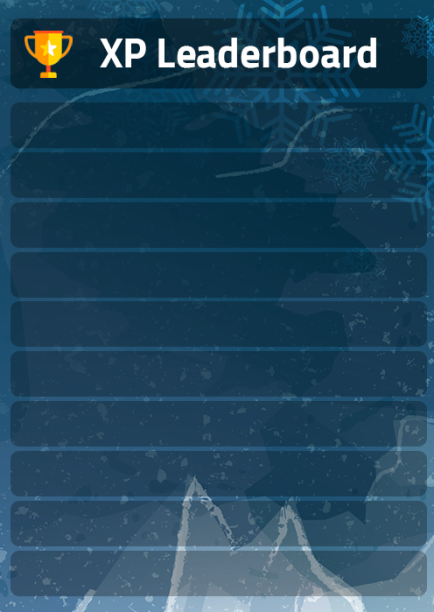
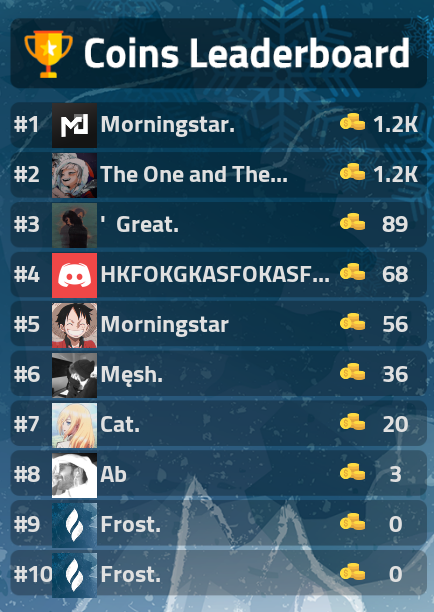
update

diff --git a/bot/src/structure/Client.js b/bot/src/structure/Client.js
@@ -15,7 +15,7 @@ class FrostClient extends Client {
   __init() {
     this.commandHandler = [];
     this.listenerHandler = [];
-    this.lastLeaderUpdate = Date.now();
+    this.lastLeaderUpdate = 0;
     readdir(join(__dirname, "..", "commands"), (error, folders) => {
       if (error) throw error;
 
@@ -49,28 +49,38 @@ class FrostClient extends Client {
   }
 
   async updateLeaderBoard() {
+    this.lastLeaderUpdate = Date.now();
     const usersData = await UserSchema.find({});
     for (const type of ["coins", "xp"]) {
-      const dir = `${__dirname}/leaderboards/${type}`;
-      require("fs").rmdirSync(dir);
-      require("fs").mkdirSync(dir);
+      const dir = join(__dirname, "../../../", `leaderboards/${type}`);
+      require("rimraf").sync(`leaderboards/${type}`);
+      require("child_process").execSync(`mkdir leaderboards\\${type}`);
+      const icon = await resolveImage(`./leaderboards/icons/${type}.png`);
+      if (usersData.length < 100) for (const _ of new Array(100 - usersData.length)) { usersData.push({ _id: this.user.id, coins: 0, xp: 0 }); }
       for (let page = 0; page < 10; page++) {
-        const users = usersData.sort((first, second) => second[type] - first[type]).slice(page * 10, page * 10 + 10);
+        const users = usersData.sort((first, second) => second[type] - first[type]).slice(page * 10, (page * 10) + 10);
         const printer = new Canvas(434, 612)
-          .printImage(await resolveImage(`./leaderboards/bg/${type}`, 0, 0, 434, 612))
+          .printImage(await resolveImage(`./leaderboards/bg/${type}.png`), 0, 0, 434, 612)
           .setTextFont("17px Cairo-semibold")
           .setColor("#e0e0e0")
           .setTextSize(23.5);
-        users.forEach(async (userData, index) => {
-          const user = await this.users.fetch(userData._id);
-          printer.printText(`#${(page * 10) + users.indexOf(userData)}`, 14, 132 + index * 50);
-          printer.printImage(await resolveImage(user.displayAvatarURL({ format: "png", size: 128 })), 52, 103 + (index * 50), 45, 45);
-        });
-        
+        for (const userData of users) {
+          const user = await this.users.fetch(userData._id) || this.user;
+          const username = user.username.slice(0, 15) + (user.username.length > 14 ? "..." : "");
+          const index = users.indexOf(userData);
+          printer.printText(`#${(page * 10) + index + 1}`, 14, 132 + (index * 50));
+          printer.printImage(await resolveImage(user.displayAvatarURL({ format: "png", size: 4096 })), 52, 103 + (index * 50), 45, 45);
+          printer.printText(username, 100, 132 + (index * 50));
+          printer.printImage(icon, 340, 132 + (index * 50) - 23, 25, 25);
+          printer.setTextAlign("center");
+          printer.printText(require("short-number")(userData[type]), 395, 132 + (index * 50));
+          printer.setTextAlign("left");
+        }
+        require("fs").writeFileSync(`${dir}/${page}.png`, printer.toBuffer());
+        if (page === 0) Promise.resolve(true);
       }
     }
-  };
-
+  }
 }
 
 module.exports = FrostClient;

diff --git a/bot/src/commands/enquiry/Leaderboard.js b/bot/src/commands/enquiry/Leaderboard.js
@@ -1,46 +1,10 @@
-
-const { Canvas, resolveImage } = require("canvas-constructor");
-const { registerFont } = require("canvas");
-const UserSchema = require("../../../../database/models/User");
-registerFont("./bot/src/canvas/fonts/CAIRO-SEMIBOLD.TTF", { family: "Cairo-semibold" });
 module.exports = {
   name: "leaderboard",
   async exec(message) {
     let counter = 0;
-
-
-    let membersData = (await UserSchema.find({})).sort((a, b) => b.coins - a.coins).slice(0, 10);
-    const backgroundImage = await resolveImage("./leaderboards/1.png");
-    const coinIcon = await resolveImage("./leaderboards/coins.png");
-    const cv = new Canvas(434, 612)
-    .printImage(backgroundImage, 0, 0, 434, 612)
-    .setTextFont("17px Cairo-semibold")
-      .setTextAlign("left")
-      .setColor("#e0e0e0")
-      .setTextSize(23.5);
-      membersData.forEach(m => membersData.push(m));
-      membersData = membersData.sort((a, b) => b.coins - a.coins);
-    for (let i = 0; i < 10; i++) {
-      const memberI = membersData[i];
-      if (!memberI) continue;
-      const member = await this.users.fetch(memberI._id);
-      const userAvatar = await resolveImage(member.displayAvatarURL({ format: "png", dynamic: true, size: 4096 }));
-      cv.printText(`#${i + 1}`, 14, 132 + (i * 50));
-      cv.printImage(userAvatar, 52, (125 - 22) + (i * 50), 45, 45);
-      cv.printText(member.username.slice(0, 15), 36 + 12 + 52, 125 + 7 + (i * 50));
-      cv.printImage(coinIcon, 340, (125 + 7 + (i * 50)) - 23, 25, 25);
-      cv.setTextAlign("center");
-      cv.printText(require("short-number")(memberI.coins), 368 + 27, 125 + 7 + (i * 50));
-      cv.setTextAlign("left");
-    }
-
-
-
-    return message.channel.send({ files: [cv.toBuffer() ]});
-
     let coins = true;
     const reactions = { previous: "⏮", next: "⏭", level: "🏅", coins: "💰" };
-    const getContent = () => `http://20.55.99.164/leaderboard.png?coins=${coins}&page=${counter}&v=${Date.now() - this.lastLeaderUpdate > 60000 ? Date.now() : this.lastLeaderUpdate}`;
+    const getContent = () => `http://20.55.99.164/leaderboard.png?coins=${coins}&page=${counter + 1}&v=${Date.now() - this.lastLeaderUpdate > 60000 ? Date.now() : this.lastLeaderUpdate}`;
     if (Date.now() - this.lastLeaderUpdate > 60000) await this.updateLeaderBoard();
     const theMessage = await message.channel.send(getContent());
     for (const Reaction of Object.values(reactions).slice(0, -1)) {
@@ -75,7 +39,8 @@ module.exports = {
         coins = false;
         break;
       }
-      if (counter > 9 || counter < 0 || !reaction.stateChanged) return false;
+      if (counter > 9) counter = 0;
+      if (counter < 0) counter = 9;
       theMessage.edit(getContent());
     });
   }

diff --git a/bot/src/listeners/Voicestateupdate.js b/bot/src/listeners/Voicestateupdate.js
@@ -1,8 +1,9 @@
 const MemberSchema = require("../../../database/models/Member");
+const UserSchema = require("../../../database/models/User");
 module.exports = {
   name: "voiceStateUpdate",
   async exec(Oldstate, Newstate) {
-    const member = Newstate.member;
+    const { member } = Newstate;
     if (member.user.bot) return false;
     const vipVoice = ["789916236770967584"];
     if (!Oldstate.channel && Newstate.channel) {
@@ -12,7 +13,7 @@ module.exports = {
     if (Oldstate.channel && Newstate.channel) {
       if (!vipVoice.includes(Oldstate.channel.id) && vipVoice.includes(Newstate.channel.id)) member.joinedVipVoice = Date.now();
       if (vipVoice.includes(Oldstate.channel.id) && !vipVoice.includes(Newstate.channel.id) && member.joinedVipVoice) {
-        await MemberSchema.findByIdAndUpdate(`${member.user.id}-${member.guild.id}`, { $inc: { "voiceTime.vip": Date.now() - member.joinedVipVoice}});
+        await MemberSchema.findByIdAndUpdate(`${member.user.id}-${member.guild.id}`, { $inc: { "voiceTime.vip": Date.now() - member.joinedVipVoice } });
         member.joinedVipVoice = false;
       }
     }
@@ -20,6 +21,7 @@ module.exports = {
       await member.getID();
       if (member.joinedVoice) {
         await MemberSchema.findByIdAndUpdate(`${member.user.id}-${member.guild.id}`, { $inc: { "voiceTime.total": Date.now() - member.joinedVoice}});
+        await UserSchema.findByIdAndUpdate(member.user.id, { $inc: { xp: ((Date.now() - member.joinedVoice) / 1000 / 60) * 0.1 } });
         member.joinedVoice = false;
       }
       if (member.joinedVipVoice) {

diff --git a/bot/src/commands/enquiry/Profile.js b/bot/src/commands/enquiry/Profile.js
@@ -17,7 +17,10 @@ module.exports = {
     const backgroundImage = await resolveImage("./bot/src/canvas/images/bg.jpg");
     const userAvatar = await resolveImage(user.displayAvatarURL({ format: "png", dynamic: true, size: 4096 }));
     const { coins, rep, xp, bio } = await user.getProfile();
-    const canvas = new Canvas(347, 218)
+    const canvas = new Canvas(347, 218);
+    canvas.strokeStyle = 'rgba(0,0,0,0.5)';
+    canvas.lineWidth = 50;
+    canvas
       .printImage(backgroundImage, 0, 0, 347, 218)
       .printImage(profileImage, 0, 0, profileImage.width, profileImage.height)
       .printCircularImage(userAvatar, 95, 86, 39)
@@ -33,14 +36,18 @@ module.exports = {
       .printText(bio, 95, 157)
       .setTextFont("30px Cairo-bold")
       .setTextSize(25)
-      .printText(xp, 191, 84)
+      .printText(Math.floor(xp / 1000), 191, 84)
       .printText(Math.abs(rep.likes), 191, 136)
       .setTextSize(13)
       .setTextAlign("left")
-      .printText(xp, 65, 182)
+      .printText(Math.floor(xp), 65, 182)
       .setTextAlign("center")
       .setTextSize(22)
-      .printText(rep.likes > 0 ? "+" : rep.likes === 0 ? "" : "-", 174, 136);
+      .printText(rep.likes > 0 ? "+" : rep.likes === 0 ? "" : "-", 174, 136)
+      .beginPath()
+      .moveTo(35, 161)
+      .lineTo(308, 161)
+      .stroke();
     message.channel.send({ files: [{ attachment: canvas.toBuffer(), name: "profile.png" }] });
   }
 };

diff --git a/bot/src/listeners/Message.js b/bot/src/listeners/Message.js
@@ -1,6 +1,7 @@
 const axios = require("axios").default;
 const GuildSchema = require("../../../database/models/Guild");
 const MemberSchema = require("../../../database/models/Member");
+const UserSchema = require("../../../database/models/User");
 const wait = require("util").promisify(setTimeout);
 const cooldown = [];
 
@@ -22,7 +23,6 @@ module.exports = {
     if (command && message.content.startsWith(message.prefix)) {
       message.launched = true;
       let defaultCooldown = command.cooldown || 2000;
-      console.log (command);
       if (cooldown.find(person => person.command === command.name && person.user === message.author.id)) return message.react("🤌").then(() => message.delete({ timeout: 2000 }).catch(() => undefined));
       if (command.turboOnly && !process.env.TURBO) return;
       if (process.env.TURBO && !command.cooldown) defaultCooldown = 0;
@@ -41,6 +41,7 @@ module.exports = {
       });
     } else if (message.guild) {
       await GuildSchema.findByIdAndUpdate(message.guild.id, { $push: { messages: message.createdAt.getTime() } });
+      await UserSchema.findByIdAndUpdate(message.author.id, { $inc: { xp: 0.3 } });
     }
   }
 };

diff --git a/index.js b/index.js
@@ -15,11 +15,10 @@ app.use("/sh", require("./routes/Short")());
 
 "Leaderboard Backend";
 app.get("/leaderboard.png", async (request, response) => {
-  const dir = `${__dirname}/leaderboards/${request.query.coins ? "coins" : "xp"}`;
+  const dir = `${__dirname}/leaderboards/${request.query.coins === "true" ? "coins" : "xp"}`;
   const leaderboards = require("fs").readdirSync(dir);
-  const page = leaderboards[request.query.page];
+  const page = leaderboards[request.query.page - 1];
   if (!page) return response.status(404).redirect("/");
-  if (Date.now () - client.lastLeaderUpdate > 60000) await this.updateLeaderBoard();
   response.sendFile(`${dir}/${page}`);
 });
 app.listen(80, () => console.log("Listening on port 80!"));

diff --git a/bot/src/commands/enquiry/Daily.js b/bot/src/commands/enquiry/Daily.js
@@ -1,0 +1,15 @@
+const UserSchema = require("../../../../database/models/User");
+
+module.exports = {
+  name: "daily",
+  async exec(message) {
+    const userData = await UserSchema.findById(message.author.id);
+    if (Date.now() - userData.daily > 24 * 60 * 60 * 1000) return message.react("⏱");
+    const coins = Math.round(Math.random() * 300);
+    await UserSchema.findByIdAndUpdate(message.author.id, { $set: { daily: 50 }, $inc: { coins } });
+    for (const number of String(coins).split("")) {
+      await message.react(["0⃣", "1⃣", "2⃣", "3⃣", "4⃣", "5⃣", "6⃣", "7⃣", "8⃣", "9⃣"][Number(number)]);
+    }
+    await message.react("💰");
+  }
+};

diff --git a/database/models/User.js b/database/models/User.js
@@ -1,6 +1,7 @@
 const { Schema, model } = require("mongoose");
 const UserSchema = Schema({
   _id: String,
+  daily: Number,
   coins: Number,
   xp: {
     "type": Number,
